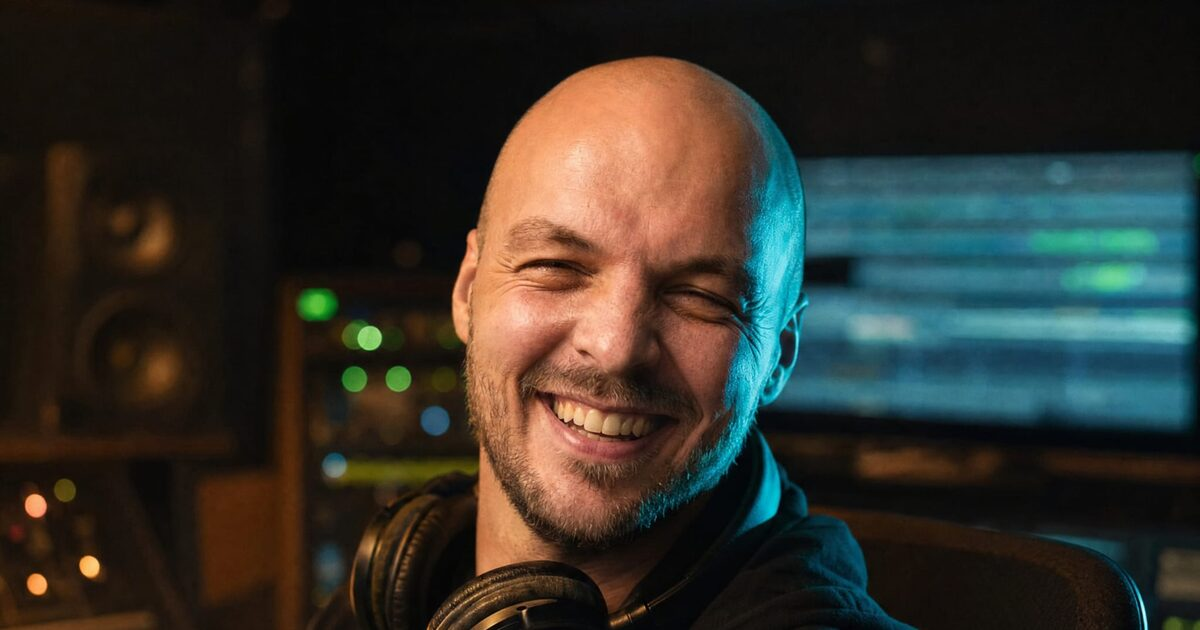
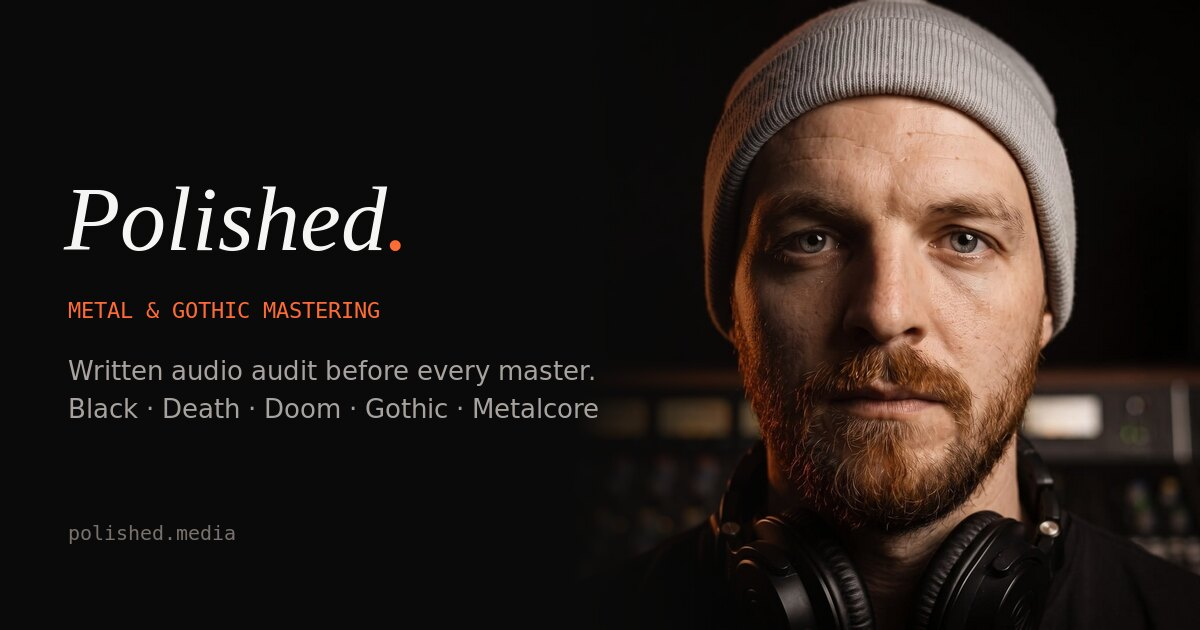
New engineer portrait, branded social card, EN/DE language switch
- Replace the studio photo with Tim's new portrait (900px WebP/JPEG for the
  engineer section, full-size file for Person/LocalBusiness schema); remove
  the old studio.jpeg and its derived assets
- og:image is now a branded 1200x630 card (logo, niche, portrait)
- Add an EN | DE language switch next to the header CTA on every page;
  pages without a German translation link to /de/, /de/ links back to /
- Header nav collapses to the hamburger menu below 960px (was 768px) so the
  switch fits without horizontal overflow on tablets
- German page nav "Audit" now stays on /de/

Claude-Session: https://claude.ai/code/session_012kGYZEo8JTbwY1dqHdn2kR

diff --git a/index.html b/index.html
@@ -37,7 +37,7 @@
 <meta property="og:image" content="https://polished.media/assets/og-image.jpg">
 <meta property="og:image:width" content="1200">
 <meta property="og:image:height" content="630">
-<meta property="og:image:alt" content="Tim Borchert, mastering engineer at Polished, in the studio">
+<meta property="og:image:alt" content="Polished — Metal &amp; Gothic Mastering, with mastering engineer Tim Borchert">
 <meta name="twitter:image" content="https://polished.media/assets/og-image.jpg">
 
 <!-- Twitter -->
@@ -58,7 +58,7 @@
   "@id": "https://polished.media/#business",
   "name": "Polished Mastering",
   "alternateName": "Polished Metal & Gothic Mastering",
-  "image": "https://polished.media/studio.jpeg",
+  "image": "https://polished.media/tim-borchert-portrait.jpg",
   "logo": "https://polished.media/assets/icon-512.png",
   "url": "https://polished.media/",
   "email": "polished.media@gmx.de",
@@ -114,7 +114,7 @@
   "name": "Tim Borchert",
   "jobTitle": "Mastering Engineer",
   "description": "Mastering engineer specialized in Black Metal, Death Metal, Doom and Gothic. Degree in Systematic Musicology from the University of Hamburg.",
-  "image": "https://polished.media/studio.jpeg",
+  "image": "https://polished.media/tim-borchert-portrait.jpg",
   "url": "https://polished.media/#engineer",
   "knowsLanguage": ["en", "de"],
   "worksFor": { "@id": "https://polished.media/#business" },
@@ -429,6 +429,15 @@ nav {
 
 .nav-actions { display: flex; align-items: center; gap: 16px; flex-shrink: 0; }
 
+/* Language switch */
+.lang-switch {
+  display: flex; align-items: center; border: 1px solid var(--border-strong); border-radius: 4px; overflow: hidden;
+  font-family: var(--mono); font-size: 12px; letter-spacing: 0.06em; flex-shrink: 0;
+}
+.lang-switch a, .lang-switch span { padding: 6px 9px; color: var(--text-dim); text-decoration: none; line-height: 1; }
+.lang-switch span[aria-current] { background: var(--bg-card); color: var(--text); }
+.lang-switch a:hover { color: var(--accent); }
+
 .menu-toggle {
   display: none;
   flex-direction: column;
@@ -453,7 +462,7 @@ nav {
 
 .cta-short { display: none; }
 
-@media (max-width: 768px) {
+@media (max-width: 960px) {
   .menu-toggle { display: flex; }
   .nav-links {
     display: none;
@@ -477,6 +486,8 @@ nav {
   .cta-full { display: none; }
   .cta-short { display: inline; }
   .nav-cta { padding: 9px 14px; font-size: 11px; }
+  .nav-actions { gap: 10px; }
+  .lang-switch a, .lang-switch span { padding: 6px 7px; font-size: 11px; }
 }
 
 /* === CTA BUTTONS (magnetic-ready) === */
@@ -1957,6 +1968,7 @@ footer a.legal-link { cursor: pointer; }
       <li><a href="#contact">Contact</a></li>
     </ul>
     <div class="nav-actions">
+      <div class="lang-switch" role="group" aria-label="Language"><span aria-current="true" lang="en" title="English">EN</span><a href="/de/" hreflang="de" lang="de" title="Deutsch" data-track="lang-de">DE</a></div>
       <button class="menu-toggle" id="menuToggle" aria-label="Toggle menu" aria-controls="navLinks" aria-expanded="false">
         <span></span><span></span><span></span>
       </button>
@@ -2270,8 +2282,8 @@ footer a.legal-link { cursor: pointer; }
 <!-- ENGINEER -->
 <section class="engineer reveal" id="engineer" aria-labelledby="engineer-heading">
   <div class="engineer-inner">
-    <div class="engineer-portrait" role="img" aria-label="Tim Borchert mastering in the studio">
-      <picture><source srcset="/assets/studio-900.webp" type="image/webp"><img src="/assets/studio-900.jpg" alt="Tim Borchert, Mastering Engineer at Polished, in the studio" class="portrait-img" loading="lazy" decoding="async" width="900" height="900"></picture>
+    <div class="engineer-portrait">
+      <picture><source srcset="/assets/tim-borchert-900.webp" type="image/webp"><img src="/assets/tim-borchert-900.jpg" alt="Portrait of Tim Borchert, mastering engineer at Polished, with headphones in front of the studio console" class="portrait-img" loading="lazy" decoding="async" width="900" height="900"></picture>
       <div class="portrait-corner tl" aria-hidden="true"></div>
       <div class="portrait-corner tr" aria-hidden="true"></div>
       <div class="portrait-corner bl" aria-hidden="true"></div>

diff --git a/metal-mastering-loudness/index.html b/metal-mastering-loudness/index.html
@@ -157,9 +157,10 @@
   <div class="nav-inner">
     <a href="/" class="logo">Polished<span class="dot">.</span></a>
     <ul class="nav-links" id="navLinks">
-      <li><a href="/#audit">Audit</a></li><li><a href="/#genres">Genres</a></li><li><a href="/#packages">Packages</a></li><li><a href="/metal-mastering-loudness/" aria-current="page">Loudness Guide</a></li><li><a href="/de/" hreflang="de" lang="de">Deutsch</a></li>
+      <li><a href="/#audit">Audit</a></li><li><a href="/#genres">Genres</a></li><li><a href="/#packages">Packages</a></li><li><a href="/metal-mastering-loudness/" aria-current="page">Loudness Guide</a></li>
     </ul>
     <div class="nav-actions">
+      <div class="lang-switch" role="group" aria-label="Language"><span aria-current="true" lang="en" title="English">EN</span><a href="/de/" hreflang="de" lang="de" title="Deutsch" data-track="lang-de">DE</a></div>
       <button class="menu-toggle" id="menuToggle" aria-label="Toggle menu" aria-controls="navLinks" aria-expanded="false"><span></span><span></span><span></span></button>
       <a href="/#contact" class="cta-btn nav-cta" data-track="nav-cta">Request Audit →</a>
     </div>

diff --git a/de/index.html b/de/index.html
@@ -161,9 +161,10 @@
   <div class="nav-inner">
     <a href="/de/" class="logo">Polished<span class="dot">.</span></a>
     <ul class="nav-links" id="navLinks">
-      <li><a href="/#audit">Audit</a></li><li><a href="/de/#genres">Genres</a></li><li><a href="/de/#preise">Preise</a></li><li><a href="/metal-mastering-loudness/">Loudness-Guide</a></li><li><a href="/" hreflang="en" lang="en">English</a></li>
+      <li><a href="/de/#audit">Audit</a></li><li><a href="/de/#genres">Genres</a></li><li><a href="/de/#preise">Preise</a></li><li><a href="/metal-mastering-loudness/">Loudness-Guide</a></li>
     </ul>
     <div class="nav-actions">
+      <div class="lang-switch" role="group" aria-label="Sprache"><a href="/" hreflang="en" lang="en" title="English" data-track="lang-en">EN</a><span aria-current="true" lang="de" title="Deutsch">DE</span></div>
       <button class="menu-toggle" id="menuToggle" aria-label="Menü öffnen" aria-controls="navLinks" aria-expanded="false"><span></span><span></span><span></span></button>
       <a href="/de/#kontakt" class="cta-btn nav-cta" data-track="nav-cta">Audit anfragen →</a>
     </div>

diff --git a/black-metal-mastering/index.html b/black-metal-mastering/index.html
@@ -150,9 +150,10 @@
   <div class="nav-inner">
     <a href="/" class="logo">Polished<span class="dot">.</span></a>
     <ul class="nav-links" id="navLinks">
-      <li><a href="/#audit">Audit</a></li><li><a href="/#genres">Genres</a></li><li><a href="/#packages">Packages</a></li><li><a href="/metal-mastering-loudness/">Loudness Guide</a></li><li><a href="/de/" hreflang="de" lang="de">Deutsch</a></li>
+      <li><a href="/#audit">Audit</a></li><li><a href="/#genres">Genres</a></li><li><a href="/#packages">Packages</a></li><li><a href="/metal-mastering-loudness/">Loudness Guide</a></li>
     </ul>
     <div class="nav-actions">
+      <div class="lang-switch" role="group" aria-label="Language"><span aria-current="true" lang="en" title="English">EN</span><a href="/de/" hreflang="de" lang="de" title="Deutsch" data-track="lang-de">DE</a></div>
       <button class="menu-toggle" id="menuToggle" aria-label="Toggle menu" aria-controls="navLinks" aria-expanded="false"><span></span><span></span><span></span></button>
       <a href="/#contact" class="cta-btn nav-cta" data-track="nav-cta">Request Audit →</a>
     </div>

diff --git a/death-metal-mastering/index.html b/death-metal-mastering/index.html
@@ -150,9 +150,10 @@
   <div class="nav-inner">
     <a href="/" class="logo">Polished<span class="dot">.</span></a>
     <ul class="nav-links" id="navLinks">
-      <li><a href="/#audit">Audit</a></li><li><a href="/#genres">Genres</a></li><li><a href="/#packages">Packages</a></li><li><a href="/metal-mastering-loudness/">Loudness Guide</a></li><li><a href="/de/" hreflang="de" lang="de">Deutsch</a></li>
+      <li><a href="/#audit">Audit</a></li><li><a href="/#genres">Genres</a></li><li><a href="/#packages">Packages</a></li><li><a href="/metal-mastering-loudness/">Loudness Guide</a></li>
     </ul>
     <div class="nav-actions">
+      <div class="lang-switch" role="group" aria-label="Language"><span aria-current="true" lang="en" title="English">EN</span><a href="/de/" hreflang="de" lang="de" title="Deutsch" data-track="lang-de">DE</a></div>
       <button class="menu-toggle" id="menuToggle" aria-label="Toggle menu" aria-controls="navLinks" aria-expanded="false"><span></span><span></span><span></span></button>
       <a href="/#contact" class="cta-btn nav-cta" data-track="nav-cta">Request Audit →</a>
     </div>

diff --git a/doom-gothic-mastering/index.html b/doom-gothic-mastering/index.html
@@ -150,9 +150,10 @@
   <div class="nav-inner">
     <a href="/" class="logo">Polished<span class="dot">.</span></a>
     <ul class="nav-links" id="navLinks">
-      <li><a href="/#audit">Audit</a></li><li><a href="/#genres">Genres</a></li><li><a href="/#packages">Packages</a></li><li><a href="/metal-mastering-loudness/">Loudness Guide</a></li><li><a href="/de/" hreflang="de" lang="de">Deutsch</a></li>
+      <li><a href="/#audit">Audit</a></li><li><a href="/#genres">Genres</a></li><li><a href="/#packages">Packages</a></li><li><a href="/metal-mastering-loudness/">Loudness Guide</a></li>
     </ul>
     <div class="nav-actions">
+      <div class="lang-switch" role="group" aria-label="Language"><span aria-current="true" lang="en" title="English">EN</span><a href="/de/" hreflang="de" lang="de" title="Deutsch" data-track="lang-de">DE</a></div>
       <button class="menu-toggle" id="menuToggle" aria-label="Toggle menu" aria-controls="navLinks" aria-expanded="false"><span></span><span></span><span></span></button>
       <a href="/#contact" class="cta-btn nav-cta" data-track="nav-cta">Request Audit →</a>
     </div>

diff --git a/metalcore-djent-mastering/index.html b/metalcore-djent-mastering/index.html
@@ -150,9 +150,10 @@
   <div class="nav-inner">
     <a href="/" class="logo">Polished<span class="dot">.</span></a>
     <ul class="nav-links" id="navLinks">
-      <li><a href="/#audit">Audit</a></li><li><a href="/#genres">Genres</a></li><li><a href="/#packages">Packages</a></li><li><a href="/metal-mastering-loudness/">Loudness Guide</a></li><li><a href="/de/" hreflang="de" lang="de">Deutsch</a></li>
+      <li><a href="/#audit">Audit</a></li><li><a href="/#genres">Genres</a></li><li><a href="/#packages">Packages</a></li><li><a href="/metal-mastering-loudness/">Loudness Guide</a></li>
     </ul>
     <div class="nav-actions">
+      <div class="lang-switch" role="group" aria-label="Language"><span aria-current="true" lang="en" title="English">EN</span><a href="/de/" hreflang="de" lang="de" title="Deutsch" data-track="lang-de">DE</a></div>
       <button class="menu-toggle" id="menuToggle" aria-label="Toggle menu" aria-controls="navLinks" aria-expanded="false"><span></span><span></span><span></span></button>
       <a href="/#contact" class="cta-btn nav-cta" data-track="nav-cta">Request Audit →</a>
     </div>

diff --git a/404.html b/404.html
@@ -40,9 +40,10 @@
   <div class="nav-inner">
     <a href="/" class="logo">Polished<span class="dot">.</span></a>
     <ul class="nav-links" id="navLinks">
-      <li><a href="/#audit">Audit</a></li><li><a href="/#genres">Genres</a></li><li><a href="/#packages">Packages</a></li><li><a href="/metal-mastering-loudness/">Loudness Guide</a></li><li><a href="/de/" hreflang="de" lang="de">Deutsch</a></li>
+      <li><a href="/#audit">Audit</a></li><li><a href="/#genres">Genres</a></li><li><a href="/#packages">Packages</a></li><li><a href="/metal-mastering-loudness/">Loudness Guide</a></li>
     </ul>
     <div class="nav-actions">
+      <div class="lang-switch" role="group" aria-label="Language"><span aria-current="true" lang="en" title="English">EN</span><a href="/de/" hreflang="de" lang="de" title="Deutsch" data-track="lang-de">DE</a></div>
       <button class="menu-toggle" id="menuToggle" aria-label="Toggle menu" aria-controls="navLinks" aria-expanded="false"><span></span><span></span><span></span></button>
       <a href="/#contact" class="cta-btn nav-cta" data-track="nav-cta">Request Audit →</a>
     </div>

diff --git a/assets/site.css b/assets/site.css
@@ -248,3 +248,13 @@ footer { background: #050505; padding: 64px 0 36px; border-top: 1px solid var(--
 @media (prefers-reduced-motion: reduce) {
   *, *::before, *::after { animation: none !important; transition: none !important; scroll-behavior: auto !important; }
 }
+
+/* LANGUAGE SWITCH */
+.lang-switch {
+  display: flex; align-items: center; border: 1px solid var(--border-strong); border-radius: 4px; overflow: hidden;
+  font-family: var(--mono); font-size: 12px; letter-spacing: 0.06em; flex-shrink: 0;
+}
+.lang-switch a, .lang-switch span { padding: 6px 9px; color: var(--text-dim); text-decoration: none; line-height: 1; }
+.lang-switch span[aria-current] { background: var(--bg-card); color: var(--text); }
+.lang-switch a:hover { color: var(--accent); }
+@media (max-width: 480px) { .nav-actions { gap: 10px; } .lang-switch a, .lang-switch span { padding: 6px 7px; font-size: 11px; } }
